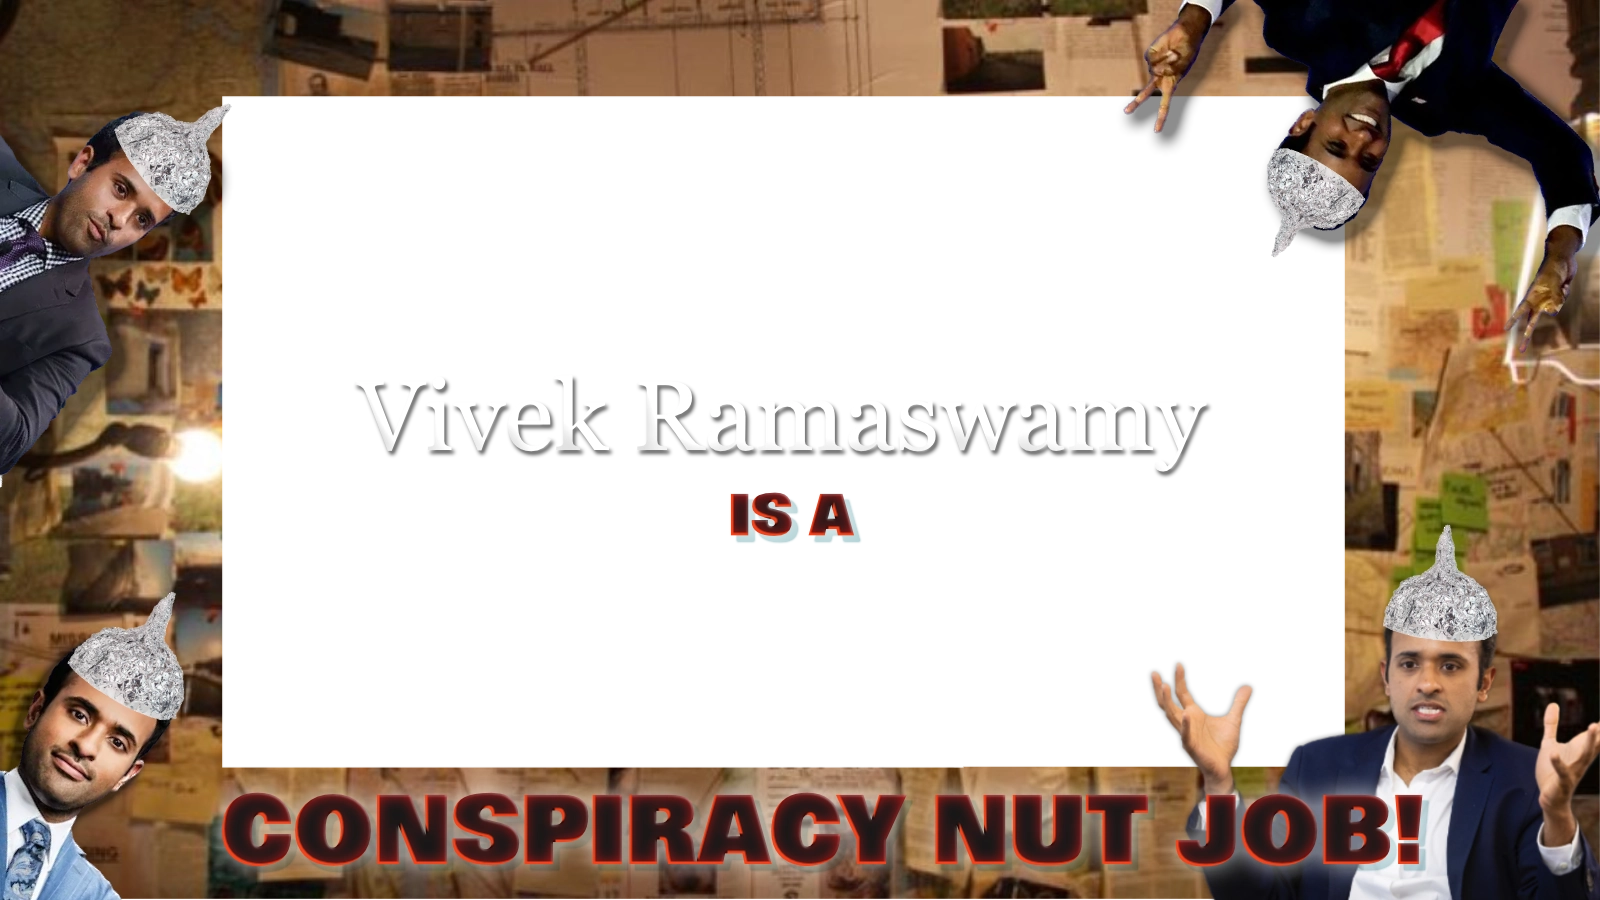
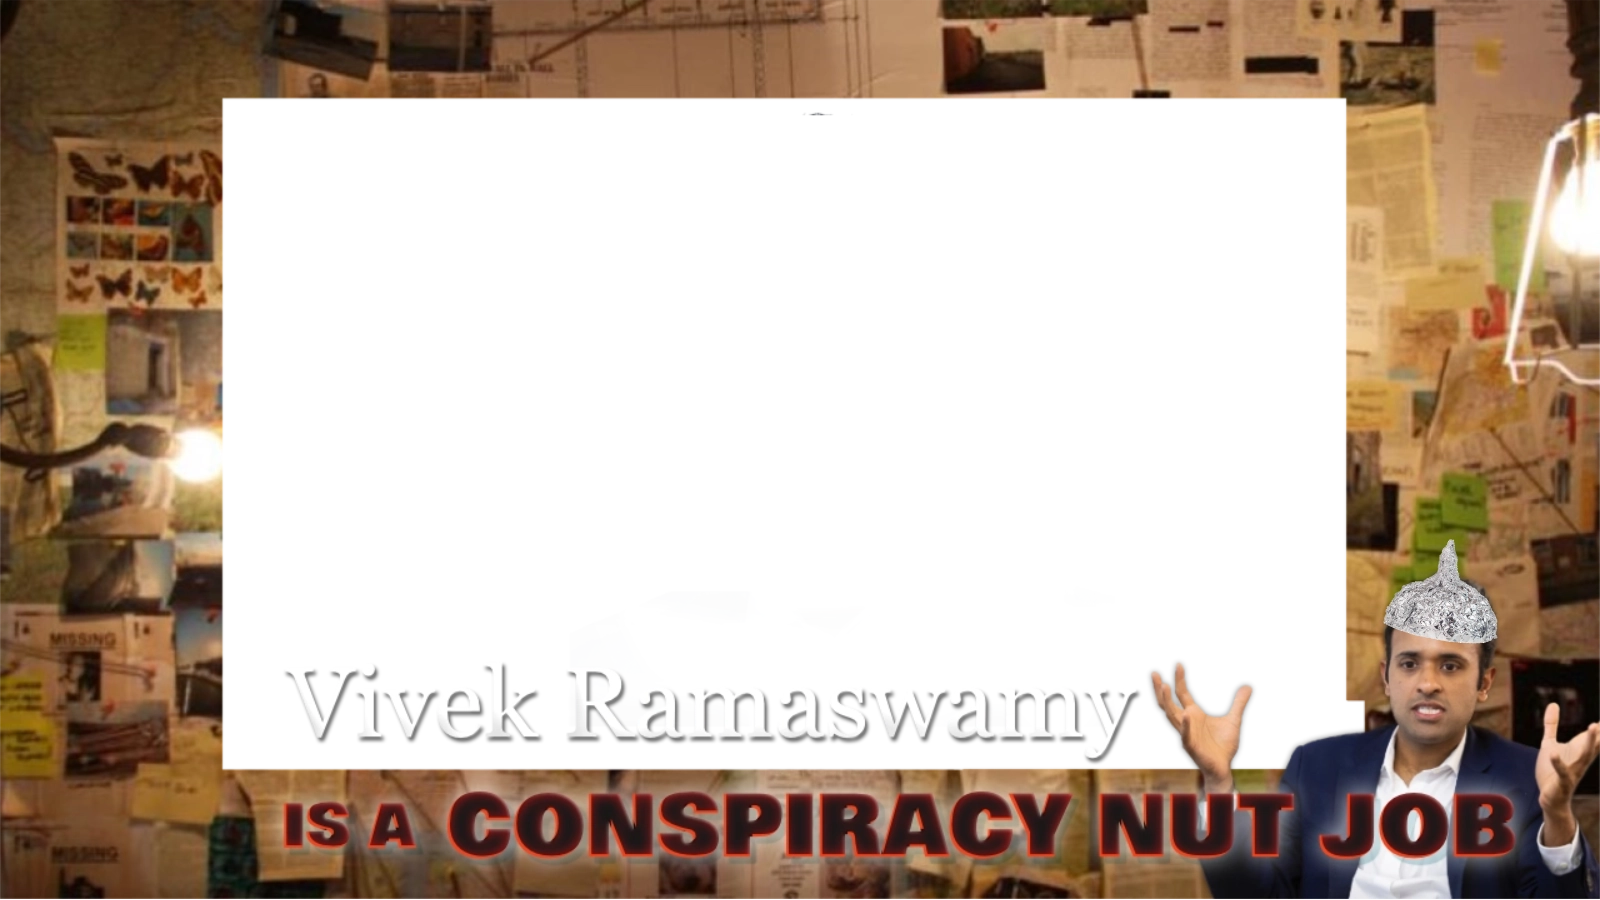
ramaswamy updates

diff --git a/src/content/posts/ramaswamy.md b/src/content/posts/ramaswamy.md
@@ -36,7 +36,7 @@ scrollable: false
 showZoom: true
 showPageNav: true
 nftdrop: "2023-03-05T10:00:00"
-contentinvideo: true
+contentinvideo: false
 viewerwarning: Viewer Discretion Strongly Advised
 marate: MA
 marating1: EW
@@ -133,7 +133,11 @@ opacity:0;
 
 
 
-
+<img class="" src="/assets/swammy-mammas-promo2.webp" width="100%" style=" z-index:-1; opacity:;
+/* animation: kariFilter1 6s ease-in-out;
+animation-delay: 4s;
+animation-iteration-count:infinite; */
+" />
 
 
 
